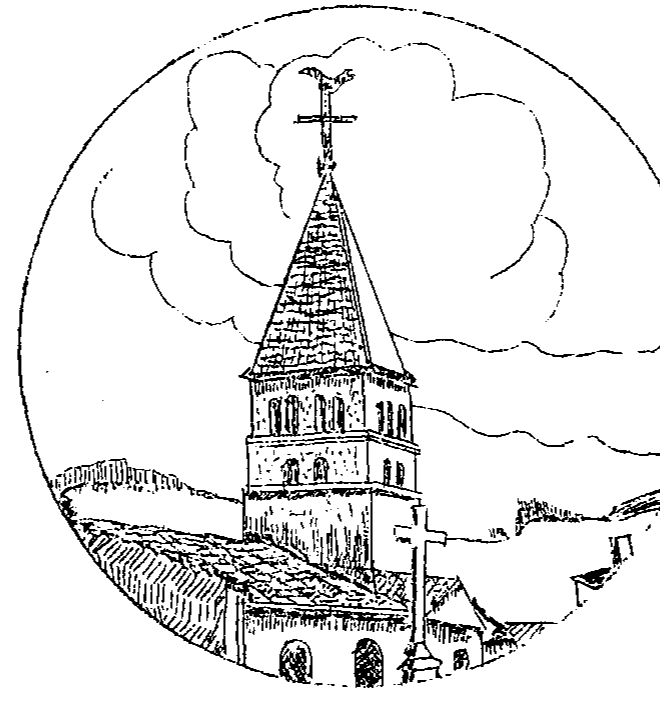
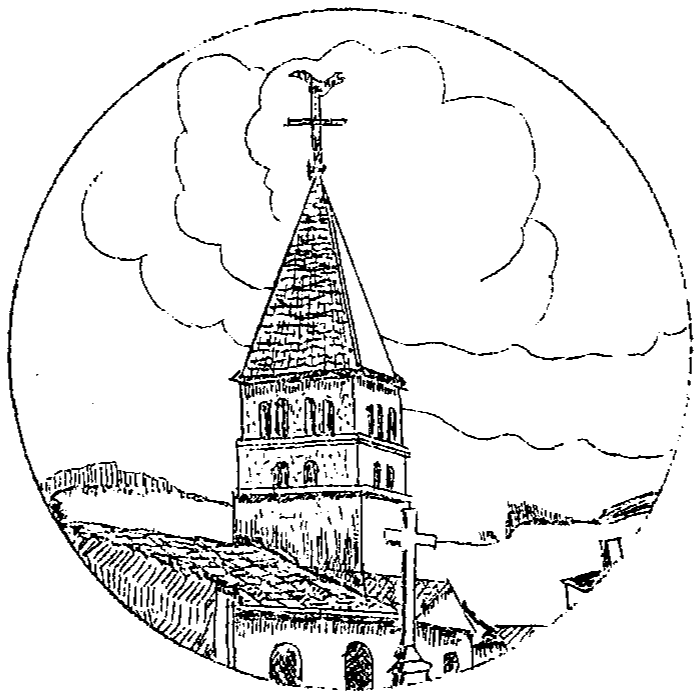
fix: cadrage complet de la vignette du clocher en couverture
La vignette circulaire de couverture était tronquée à droite : le cadrage
660x710 px pris en (820,1730) de la vue 005 coupait le cercle imprimé de 41 px
(arc couvert sur 310°/360°).

Le cercle imprimé, mesuré sur le rendu à 280 ppp de la vue 005, a pour centre
(1179, 2076) et pour rayon 341 px, soit une emprise x 838..1520 — au-delà du
bord droit 1479 du cadrage précédent. Les marges imprimées de l'original étant
inégales autour du dessin, le cadrage est désormais un carré centré sur le
cercle : 698x698 px en (830,1727), soit 8 px de marge de chaque côté. Le
fichier reste un recadrage strict du rendu natif (pixels identiques au scan,
aucun ré-échantillonnage).

Vérifications :
- fidélité : pixels strictement identiques à la vue 005 ;
- bord : aucun pixel d'encre sur les bords ;
- cercle : arc couvert sur 360°/360° (310°/360° avant correction) ;
- rendu : compilation pdflatex deux passes, image 698x698 bien intégrée à la
  page 1, couverture inspectée visuellement.

Ajout de scripts/check_illustration.py : contrôle vérifiant la fidélité au
scan, l'absence d'encre sur les bords et la couverture complète de l'arc des
vignettes circulaires. Règle de cadrage correspondante documentée dans
CONVENTIONS_TRANSCRIPTION.md § 3.3, les 122 autres illustrations restant à
transcrire.

Légitimité de la régression : le contrôle sur l'ancien cadrage échoue
(310°/360°), sur le cadrage corrigé il passe (360°/360°).

diff --git a/scripts/check_illustration.py b/scripts/check_illustration.py
@@ -1,0 +1,164 @@
+#!/usr/bin/env python3
+"""Contrôle un cadrage d'illustration extrait du fac-similé.
+
+Trois vérifications, dans cet ordre :
+
+1. **Fidélité** : le fichier de ``Illustrations/`` doit être exactement le
+   rectangle annoncé du rendu de la vue à 280 ppp (aucun ré-échantillonnage,
+   aucune recompression).
+2. **Bord** (option ``--bord``) : aucun pixel d'encre ne doit toucher un bord
+   de l'image — un sujet qui touche le bord est un sujet rogné. Les marges de
+   l'original sont inégales : ne pas activer sans avoir vérifié le cadrage.
+3. **Vignette circulaire** (option ``--cercle``) : lorsqu'un motif circulaire
+   encadre le dessin, l'arc doit être couvert sur 360°. Couverture partielle =
+   motif coupé. Le contour extérieur est relevé par balayage radial au degré
+   depuis le centroïde de l'encre, puis le cercle est ajusté sur ces points :
+   un ajustement sur les seules transitions ligne à ligne se laisse biaiser
+   par le dessin intérieur et déclare des secteurs manquants qui n'existent pas.
+
+Usage :
+    python3 scripts/check_illustration.py <vue> <x> <y> <w> <h> <nom> [--bord] [--cercle]
+Exemple (vignette de couverture) :
+    python3 scripts/check_illustration.py 5 830 1727 698 698 illus-00-couverture-clocher --cercle
+"""
+from __future__ import annotations
+
+import sys
+from pathlib import Path
+
+import numpy as np
+from PIL import Image
+
+ROOT = Path(__file__).resolve().parent.parent
+PAGES = ROOT / "Originaux" / "Pages"
+ILLUS = ROOT / "Illustrations"
+
+SEUIL_ENCRE = 128
+TOLERANCE_ARC = 6   # px : distance au rayon dans laquelle un pixel compte sur l'arc
+PAS_SECTEUR = 5     # degrés par secteur
+
+
+def _ajuster_cercle(points: np.ndarray) -> tuple[float, float, float]:
+    """Ajustement algébrique (Kåsa) du cercle au plus près des points."""
+    x, y = points[:, 0], points[:, 1]
+    a = np.column_stack([x, y, np.ones(len(x))])
+    d, e, f = np.linalg.lstsq(a, -(x**2 + y**2), rcond=None)[0]
+    cx, cy = -d / 2, -e / 2
+    return cx, cy, float(np.sqrt(cx**2 + cy**2 - f))
+
+
+def _arc(encre: np.ndarray) -> tuple[np.ndarray, float, float, float, int]:
+    """Secteurs couverts par le contour circulaire extérieur, et le cercle ajusté.
+
+    Le contour extérieur est le pixel d'encre le plus éloigné du centroïde dans
+    chaque direction (1°). L'ajustement écarte ensuite les points aberrants
+    (antennes, texte débordant) par passes successives.
+    """
+    ys, xs = np.nonzero(encre)
+    cxm, cym = xs.mean(), ys.mean()
+    rad = np.hypot(xs - cxm, ys - cym)
+    ang = (np.degrees(np.arctan2(ys - cym, xs - cxm)).astype(int)) % 360
+
+    extremes: dict[int, tuple[float, float, float]] = {}
+    for a, r, x, y in zip(ang, rad, xs, ys):
+        if r > extremes.get(a, (-1.0, 0, 0))[0]:
+            extremes[a] = (r, float(x), float(y))
+    points = np.array([(v[1], v[2]) for v in extremes.values()], dtype=float)
+    directions = len(extremes)
+
+    residu_max = float("nan")
+    cx = cy = r = 0.0
+    for passe in range(8):
+        cx, cy, r = _ajuster_cercle(points)
+        residu = np.abs(np.hypot(points[:, 0] - cx, points[:, 1] - cy) - r)
+        keep = residu < max(2.0, 10.0 - passe)
+        points = points[keep]
+        residu_max = float(residu[keep].max()) if keep.any() else float("nan")
+
+    angs = np.degrees(np.arctan2(ys - cy, xs - cx)) % 360
+    rads = np.hypot(xs - cx, ys - cy)
+    sur_arc = (angs[np.abs(rads - r) < TOLERANCE_ARC] // PAS_SECTEUR).astype(int)
+    secteurs = np.zeros(360 // PAS_SECTEUR, dtype=bool)
+    secteurs[sur_arc % len(secteurs)] = True
+    return secteurs, cx, cy, r, directions
+
+
+def main() -> int:
+    args = [a for a in sys.argv[1:] if not a.startswith("--")]
+    options = {a for a in sys.argv[1:] if a.startswith("--")}
+    if len(args) != 6:
+        print(__doc__)
+        return 2
+
+    vue, x, y, w, h = (int(v) for v in args[:5])
+    nom = args[5]
+
+    src = PAGES / f"Page-{vue:03d}.png"
+    dst = ILLUS / f"{nom}.png"
+    for chemin, quoi in ((src, "vue"), (dst, "illustration")):
+        if not chemin.exists():
+            print(f"ECHEC: {quoi} introuvable ({chemin})")
+            return 1
+
+    with Image.open(src) as im:
+        page = np.array(im.convert("L"))
+    with Image.open(dst) as im:
+        illus = np.array(im.convert("L"))
+
+    echecs: list[str] = []
+
+    # 1. Fidélité au scan
+    if (w, h) != (illus.shape[1], illus.shape[0]):
+        echecs.append(
+            f"taille annoncée {w}x{h} != fichier {illus.shape[1]}x{illus.shape[0]}"
+        )
+    attendu = page[y:y + illus.shape[0], x:x + illus.shape[1]]
+    if attendu.shape != illus.shape:
+        echecs.append("cadrage hors de la vue")
+    elif not np.array_equal(attendu, illus):
+        diff = int((attendu != illus).sum())
+        echecs.append(f"{diff} pixel(s) différent(s) du scan (re-échantillonnage ?)")
+    else:
+        print(f"OK  fidélité : {dst.name} = vue {vue:03d} "
+              f"[x {x}..{x+w-1}, y {y}..{y+h-1}]")
+
+    encre = illus < SEUIL_ENCRE
+
+    # 2. Encre au bord = sujet rogné
+    if "--bord" in options:
+        bords = {
+            "haut": int(encre[0].sum()),
+            "bas": int(encre[-1].sum()),
+            "gauche": int(encre[:, 0].sum()),
+            "droite": int(encre[:, -1].sum()),
+        }
+        touches = {k: v for k, v in bords.items() if v}
+        if touches:
+            echecs.append(f"encre sur le bord ({touches}) : sujet rogné")
+        else:
+            print("OK  bord : aucun pixel d'encre sur les bords")
+
+    # 3. Vignette circulaire complète
+    if "--cercle" in options:
+        secteurs, cx, cy, r, directions = _arc(encre)
+        degres = int(secteurs.sum()) * PAS_SECTEUR
+        print(f"    cercle du contour extérieur : centre ({cx:.1f}, {cy:.1f}), "
+              f"rayon {r:.1f} px sur {directions} directions")
+        print(f"    bbox : x {cx-r:.0f}..{cx+r:.0f}  y {cy-r:.0f}..{cy+r:.0f}  "
+              f"(image {illus.shape[1]}x{illus.shape[0]})")
+        if degres < 360:
+            manquants = [int(i) * PAS_SECTEUR for i in np.nonzero(~secteurs)[0]]
+            echecs.append(
+                f"arc circulaire couvert sur {degres}°/360° "
+                f"(secteurs manquants : {manquants[:8]}...) : le motif est coupé"
+            )
+        else:
+            print("OK  cercle : arc complet 360°/360°")
+
+    for e in echecs:
+        print(f"ECHEC: {e}")
+    return 1 if echecs else 0
+
+
+if __name__ == "__main__":
+    raise SystemExit(main())

diff --git a/CONVENTIONS_TRANSCRIPTION.md b/CONVENTIONS_TRANSCRIPTION.md
@@ -109,6 +109,8 @@ L'ouvrage numérisé comporte **deux numérotations qu'il ne faut jamais confond
 - L'édition originale comporte **123 illustrations** numérotées, recensées par sa propre « Table des illustrations » (pages imprimées 282-283).
 - Chaque illustration est intégrée à l'endroit où elle apparaît dans l'original, avec sa légende telle qu'imprimée.
 - Les dessins ont été gravés sur stencils par **M. Mondon de Guillin** (château du Sauzey à Avenas), comme le rappelle l'avertissement.
+- **Cadrage des illustrations** : chaque illustration est recadrée depuis le rendu de la vue à 280 ppp par `scripts/extract_illustration.py` (résolution native du fac-similé, aucun ré-échantillonnage, pixels conservés à l'identique). Le cadrage doit contenir **la totalité du motif** : aucun trait du dessin ne doit être tronqué. Les marges imprimées de l'original sont inégales autour d'un dessin — un cadrage « à l'œil » ou aligné sur un bord coupe le motif.
+- **Contrôle obligatoire** avant de référencer une illustration dans le source : `scripts/check_illustration.py <vue> <x> <y> <w> <h> <nom> --cercle` (ajouter `--bord` quand le sujet ne touche pas les bords dans l'original). Le script vérifie la fidélité au scan, l'absence d'encre sur les bords, et la couverture complète de l'arc pour les vignettes circulaires.
 - Les planches hors texte et les tableaux du 1er au 10e chapitre (illustrations 70 à 99, pages imprimées 205 à 213) demandent une vérification attentive de l'orientation : utiliser `pdflscape` si la reproduction l'exige.
 
 ### 3.4 Notes de bas de page (`\footnote`)
